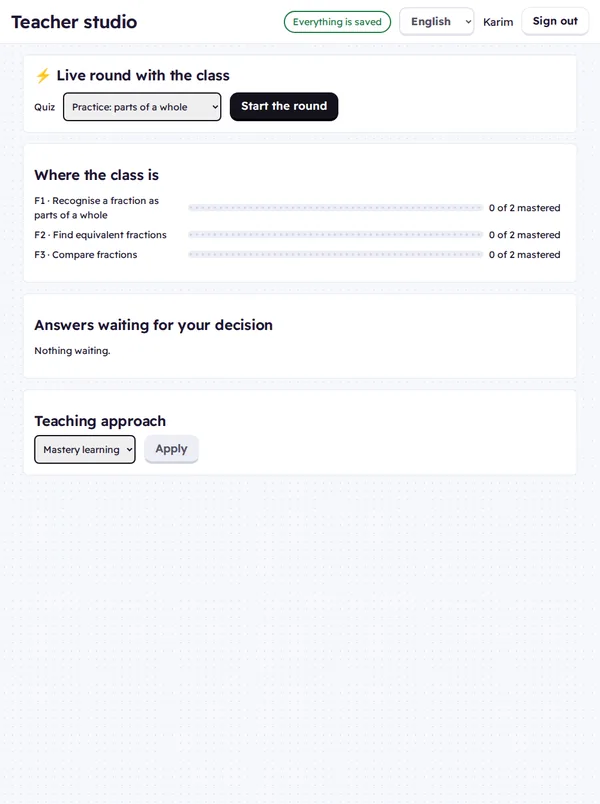
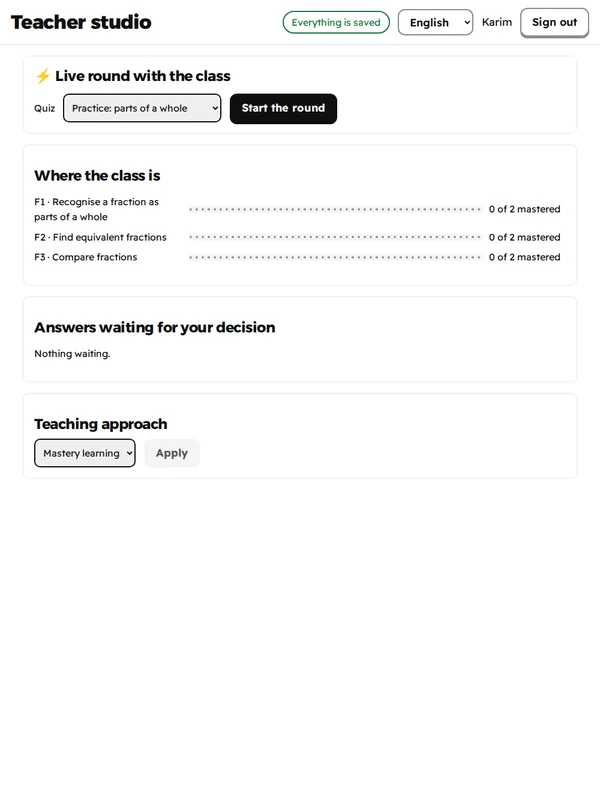
Record the new face and the contrast check
ADR 0016, changelog, journal, art bible and both design skills; new screenshots and share image.

diff --git a/web/src/lib/i18n/landing.ts b/web/src/lib/i18n/landing.ts
@@ -182,7 +182,7 @@ const en: LandingCopy = {
     title: "Made with Zidara",
     lead: "Everything you can open from this page runs on the same kernel. The demo course is one experience among many, built to show how far the engine bends. One course even teaches Zidara, with Zidara.",
     items: [
-      { title: "A learning game", body: "A course in the style of Duolingo and Brilliant for ages 9 to 11: films, toys and questions, marked by the kernel at once. Rewards come only from evidence.", href: "#play", shot: "/landing/path.webp", alt: "The fractions path after one session: level 1 mastered in blue with a palm of dots beside it, level 2 next, Bizra waiting." },
+      { title: "A learning game", body: "A course in the style of Duolingo and Brilliant for ages 9 to 11: films, toys and questions, marked by the kernel at once. Rewards come only from evidence.", href: "#play", shot: "/landing/path.webp", alt: "The fractions course after one lesson: level 1 mastered with a green tick and two stars, level 2 next with a Start button, level 3 locked." },
       { title: "Live rounds", body: "A round on the class board in the style of Kahoot, every phone answering. No timer and no ranking; the answers become practice evidence.", href: "#classes", shot: "/landing/board.webp", alt: "The teacher's studio during a live round: the question, three answers in colour, and buttons to show the answer or move on." },
       { title: "The teacher's studio", body: "The class's progress, the agent's queued marks and every undo, in one place.", href: "#classes", shot: "/landing/studio.webp", alt: "The teacher's studio: where the class is on each outcome, answers waiting for a decision, and the class's teaching approach." },
       { title: "A pedagogy switch", body: "A teacher moves the class from mastery to Cambridge-style, and every learner is judged again from the same evidence.", href: "#classes", shot: "/landing/lens.webp", alt: "The same path under Cambridge-style rules: level 1 is back to open, and a note says the engine, not the game, judges by the school's rules." },
@@ -331,7 +331,7 @@ const fr: LandingCopy = {
     title: "Fait avec Zidara",
     lead: "Tout ce que vous pouvez ouvrir depuis cette page tourne sur le même noyau. Le cours de démo est une expérience parmi d'autres, faite pour montrer jusqu'où le moteur se plie. Un cours enseigne même Zidara, avec Zidara.",
     items: [
-      { title: "Un jeu d'apprentissage", body: "Un cours dans le style de Duolingo et Brilliant pour les 9 à 11 ans : films, jouets et questions, corrigés aussitôt par le noyau. Les récompenses ne viennent que des preuves.", href: "#play", shot: "/landing/path.webp", alt: "Le chemin des fractions après une séance : le niveau 1 maîtrisé en bleu avec un palmier de points à côté, le niveau 2 ensuite, Bizra qui attend." },
+      { title: "Un jeu d'apprentissage", body: "Un cours dans le style de Duolingo et Brilliant pour les 9 à 11 ans : films, jouets et questions, corrigés aussitôt par le noyau. Les récompenses ne viennent que des preuves.", href: "#play", shot: "/landing/path.webp", alt: "Le cours de fractions après une leçon : le niveau 1 maîtrisé avec une coche verte et deux étoiles, le niveau 2 ensuite avec un bouton Go, le niveau 3 verrouillé." },
       { title: "Des manches en direct", body: "Une manche sur le tableau de la classe dans le style de Kahoot, chaque téléphone répond. Pas de chrono ni de classement ; les réponses deviennent des preuves d'entraînement.", href: "#classes", shot: "/landing/board.webp", alt: "L'atelier de l'enseignant pendant une manche en direct : la question, trois réponses en couleur, et des boutons pour montrer la réponse ou continuer." },
       { title: "L'atelier de l'enseignant", body: "Les progrès de la classe, les notes proposées par l'agent et chaque annulation, au même endroit.", href: "#classes", shot: "/landing/studio.webp", alt: "L'atelier de l'enseignant : où en est la classe pour chaque objectif, les réponses en attente de décision, et l'approche pédagogique de la classe." },
       { title: "Changer de pédagogie", body: "Un enseignant passe la classe de la maîtrise au style Cambridge, et chaque élève est jugé à nouveau à partir des mêmes preuves.", href: "#classes", shot: "/landing/lens.webp", alt: "Le même chemin selon le style Cambridge : le niveau 1 redevient ouvert, et une note dit que c'est le moteur, pas le jeu, qui juge selon les règles de l'école." },
@@ -480,7 +480,7 @@ const ar: LandingCopy = {
     title: "صُنع بزيدارا",
     lead: "كل ما تستطيع فتحه من هذه الصفحة يعمل على النواة نفسها. الدرس التجريبي تجربة واحدة من تجارب كثيرة، صُنع ليُظهر إلى أي حدّ ينثني المحرّك. بل إن أحد الدروس يعلّم زيدارا، بزيدارا.",
     items: [
-      { title: "لعبة تعلّم", body: "درس على طريقة Duolingo وBrilliant للأعمار من 9 إلى 11: أفلام وألعاب وأسئلة تصحّحها النواة فورًا. المكافآت لا تأتي إلا من الأدلّة.", href: "#play", shot: "/landing/path.webp", alt: "طريق الكسور بعد حصّة واحدة: المستوى 1 متقَن بالأزرق وبجانبه نخلة من النقاط، والمستوى 2 هو التالي، وبذرة تنتظر." },
+      { title: "لعبة تعلّم", body: "درس على طريقة Duolingo وBrilliant للأعمار من 9 إلى 11: أفلام وألعاب وأسئلة تصحّحها النواة فورًا. المكافآت لا تأتي إلا من الأدلّة.", href: "#play", shot: "/landing/path.webp", alt: "درس الكسور بعد حصّة واحدة: المستوى 1 متقَن بعلامة خضراء ونجمتين، والمستوى 2 هو التالي مع زرّ ابدأ، والمستوى 3 مقفل." },
       { title: "جولات مباشرة", body: "جولة على سبّورة القسم على طريقة Kahoot، وكل هاتف يجيب. لا مؤقّت ولا ترتيب، والإجابات تصير أدلّة تمرّن.", href: "#classes", shot: "/landing/board.webp", alt: "استوديو المعلّم أثناء جولة مباشرة: السؤال، وثلاث إجابات ملوّنة، وأزرار لإظهار الإجابة أو المتابعة." },
       { title: "استوديو المعلّم", body: "تقدّم القسم، وتقييمات الوكيل المنتظرة، وكل تراجع، في مكان واحد.", href: "#classes", shot: "/landing/studio.webp", alt: "استوديو المعلّم: أين وصل القسم في كل هدف، والإجابات التي تنتظر قرارًا، وطريقة التدريس في القسم." },
       { title: "تبديل البيداغوجيا", body: "ينقل المعلّم القسم من الإتقان إلى طريقة كامبريدج، فيُحكم على كل متعلّم من جديد بالأدلّة نفسها.", href: "#classes", shot: "/landing/lens.webp", alt: "الطريق نفسه بقواعد طريقة كامبريدج: يعود المستوى 1 مفتوحًا، وتقول ملاحظة إن المحرّك، لا اللعبة، يحكم بقواعد المدرسة." },

diff --git a/web/src/lib/i18n/strings.ts b/web/src/lib/i18n/strings.ts
@@ -124,7 +124,6 @@ export const STRINGS = {
     "studio.live.board": "افتح السبّورة",
     "studio.live.together": "القسم معًا: {n} إجابات صحيحة من {of}",
     "studio.live.ended": "سُجّلت إجابات كلّ تلميذ دليلًا للتمرّن، وحكم عليها منهج القسم.",
-    "welcome.hello": "مرحبًا! أنا بذرة. هيّا نتعلّم ونحن نلعب!",
     "welcome.title": "تعلّم وأنت تلعب.",
     "welcome.lead": "دروس قصيرة بالصور والألعاب، بلا حساب. وحين يقول التطبيق إنك أتقنت شيئًا فهذا صحيح: محرّك زيدارا هو من يقرّر، لا اللعبة.",
     "welcome.pick": "اختر درسًا",
@@ -156,7 +155,6 @@ export const STRINGS = {
     "lens.yours": "قسمك",
     "lens.note": "نفس إجاباتك، بقواعد «{name}». انظر كيف يتغيّر طريقك: محرّك زيدارا يحكم بقواعد المدرسة، لا اللعبة. قسمك يبقى على «{class}»؛ معلّمك وحده يغيّرها.",
     "lens.hint": "العب مستوى، ثمّ بدّل القواعد: شاهد كيف يحكم كلّ نظام على نفس إجاباتك.",
-    "finish.oasis": "نبتت نخلة في واحتك!",
     "error.generic": "حدث خطأ. حاول مرة أخرى.",
   },
   fr: {
@@ -279,7 +277,6 @@ export const STRINGS = {
     "studio.live.board": "Ouvrir le tableau",
     "studio.live.together": "La classe ensemble : {n} réponses justes sur {of}",
     "studio.live.ended": "Les réponses de chaque élève sont enregistrées comme entraînement, jugées par la méthode de la classe.",
-    "welcome.hello": "Salut ! Je suis Bizra. On apprend en jouant ?",
     "welcome.title": "Apprends en jouant.",
     "welcome.lead": "Des leçons courtes, avec des images et des jeux, sans compte. Quand l'appli dit que tu maîtrises quelque chose, c'est vrai : c'est le moteur de Zidara qui décide, pas le jeu.",
     "welcome.pick": "Choisis une leçon",
@@ -311,7 +308,6 @@ export const STRINGS = {
     "lens.yours": "ta classe",
     "lens.note": "Les mêmes réponses, jugées avec les règles « {name} ». Regarde ton chemin changer : c'est le moteur de Zidara qui juge, selon les règles de l'école, pas le jeu. Ta classe reste en « {class} » ; seul ton enseignant peut la changer.",
     "lens.hint": "Joue un niveau, puis change les règles : vois comment chaque école juge les mêmes réponses.",
-    "finish.oasis": "Un palmier a poussé dans ton oasis !",
     "error.generic": "Une erreur est survenue. Réessaie.",
   },
   en: {
@@ -434,7 +430,6 @@ export const STRINGS = {
     "studio.live.board": "Open the board",
     "studio.live.together": "The class together: {n} right of {of}",
     "studio.live.ended": "Each learner's answers are recorded as practice, judged by the class's teaching approach.",
-    "welcome.hello": "Hi! I'm Bizra. Let's learn by playing!",
     "welcome.title": "Learn by playing.",
     "welcome.lead": "Short lessons with pictures and games, no account needed. When the app says you've mastered something, it's true: Zidara's engine decides, not the game.",
     "welcome.pick": "Choose a course",
@@ -466,7 +461,6 @@ export const STRINGS = {
     "lens.yours": "your class",
     "lens.note": "The same answers, judged by {name} rules. Watch your path change: Zidara's engine judges by the school's rules, not the game. Your class stays on {class}; only your teacher can change it.",
     "lens.hint": "Play a level, then switch the rules: see how each school judges the same answers.",
-    "finish.oasis": "A palm grew in your oasis!",
     "error.generic": "Something went wrong. Please try again.",
   },
 } as const satisfies Record<Locale, Record<string, string>>;

diff --git a/docs/JOURNAL.md b/docs/JOURNAL.md
@@ -4,6 +4,50 @@ Newest first. Each entry: what happened, the problem, what we did, the numbers, 
 
 ---
 
+## 2026-11-03 — A third look, and contrast I had not measured
+
+**What happened.** The owner looked at the dot-matrix restyle and said it was better but the demo
+was "not there yet". The numbered labels ("01 / vision") felt like an AI-made site, the colours
+and font were weak, and the demo should be Brilliant-like without overdoing it. They pointed to
+mastrilo.com for its heading face, colours, contrast and motion. Then, after the first pass:
+"pay attention to color contrast because you are missing so much most of the time".
+
+**The problem.** Three looks in one day, each set mostly from my own instincts; the owner's
+references should have come first. And the contrast record was worse than I knew: axe passed
+every screen, yet the answer cards and inputs had a 1.27:1 edge on white, the language picker
+1.27:1, the front page's cards 1.32:1, and a comment in app.css said the green was 5.6:1 when it
+was 4.38:1. axe skips text it cannot decide and never checks control edges (WCAG 1.4.11), and I
+had written a ratio I never measured.
+
+**What we did.**
+- Studied mastrilo's build: Thmanyah Sans Black for headings (free to use, but behind an email
+  form and not redistributable, so not for a public repo), neutral near-black and white, one
+  bright accent, small idle animations. Rendered nine open Arabic and Latin faces side by side;
+  Alexandria at 800 to 900 was closest. ADR 0016.
+- Front page: dark stage, saffron accent, Alexandria headings, a typing console in the hero,
+  bracket focus on the closing phrase, the live engine in a hairline frame; numbered labels and
+  crosses removed. The hero's dot streams and the dotted wordmark went.
+- Demo rebuilt in Brilliant's manner: course cards, a single column of levels, one idea per
+  screen, Check at the bottom, a feedback panel; the mascot, the oasis and the palms removed.
+- Wrote `lowContrast`: it walks every visible text (translucent layers composited, every stop
+  of a gradient tried) and every control edge, and runs inside every `expectAccessible`. A
+  static tour measures each screen, and a planted-mistake test proves the check fails when it
+  should. It found seven failures axe had passed; all fixed with measured colours.
+
+**Problems on the way.** Letter-spacing on mono labels pulled Arabic words apart; tracking is
+now off for right-to-left everywhere. The console's first Arabic and French examples lost the
+"4" the figures test compares. One Lighthouse run under load said 56; three quiet runs said 98
+to 99. My screenshot script was committed by mistake and taken out before anything left the
+machine.
+
+**The numbers.** Lighthouse `/` 98 to 99 (was 90), `#play` 99, accessibility 100 on both;
+browser tests 13 of 13 and the static suite 7 of 7, all with the measured check; unit tests 44 of 44.
+
+**The lesson.** Start from the owner's references, not from taste. Measure every colour before
+choosing it, write only measured numbers, and test the edges of controls, not only the words.
+
+---
+
 ## 2026-11-03 — I pitched the engine as a game; the front page now says what Zidara is
 
 **What happened.** An hour after the first front page went live, the owner rejected it: "super

diff --git a/.claude/skills/girth-landing/SKILL.md b/.claude/skills/girth-landing/SKILL.md
@@ -16,14 +16,16 @@ metadata:
 State one line before building: page kind, audience, vibe, aesthetic family. Zidara's front page:
 a pitch for judges, funders and schools. **Zidara is the adaptable learning engine / LMS for the
 AI era (kernel, any framework, any experience, governed agents; `docs/proposal.md`). Never pitch
-it as a game: the game is one experience that shows the engine bends** (owner, ADR 0015). Look:
-context.dev's (dot streams, blue dotted frame, ruled sections, mono labels, dot-matrix drawings).
+it as a game: the game is one experience that shows the engine bends** (owner, ADR 0015). Look
+(ADR 0016): a dark, high-contrast stage after mastrilo.com, not copied: near-black, white
+Alexandria headings, grey reading text, one saffron accent, a typing console in the hero, small
+CSS motion, recoloured dot drawings. Start from the owner's references, not from taste.
 
 ## Hard layout rules <!-- src: design-taste-frontend#4-7-layout-discipline-hard-rules-failing-any-of-these-is-shipping-broken-work -->
 - Hero fits the first screen: headline ≤ 3 lines, subtext ≤ 20 words, CTAs visible. Max 4 text elements.
 - Navigation on one line, ≤ 80 px. One label per intent.
 - No two sections share a layout family; bento cells = content count, with varied materials.
-- Mono kickers (`01 / vision`) allowed as the page's rhythm; nothing else uppercase. No split headers, no scroll cues.
+- No numbered section labels or eyebrow kickers (owner: an AI-site pattern); numbers only for a real sequence. No split headers, no scroll cues.
 - Mobile collapse declared per section; no horizontal page scroll.
 
 ## Copy <!-- src: design-taste-frontend#4-9-content-density -->
@@ -40,7 +42,9 @@ the canvas never sits in layout flow (absolute, out of the grid) or it widens co
 ## Speed and access
 - Heavy work off the main thread (the showcase kernel runs in a Web Worker); below-the-fold
   sections use `content-visibility: auto`. Gate: Lighthouse mobile ≥ 90 performance, 100 access.
-- Dark mode by tokens; axe in light, dark and Arabic. Scrolling regions are focusable.
+- Contrast measured, never assumed: text 4.5:1 (3:1 large), every control edge 3:1 or none;
+  `lowContrast` runs in every `expectAccessible`. Write only measured ratios in comments.
+- axe in light, dark and Arabic. Scrolling regions are focusable. No tracking on Arabic.
 - Motion only with a reason, all of it off under reduced motion.
 
 ## Share metadata <!-- src: seo-aeo-best-practices#open-graph -->

diff --git a/docs/adr/0016-a-dark-stage-and-a-brilliant-lesson.md b/docs/adr/0016-a-dark-stage-and-a-brilliant-lesson.md
@@ -1,0 +1,35 @@
+# 0016. A dark stage for the pitch, a light lesson for the demo, contrast measured
+
+Date: 2026-11-03. Status: accepted. Supersedes the look in ADR 0015 (its message stands).
+
+## Context
+The owner found the dot-matrix restyle better but not there: the numbered section labels
+("01 / vision") read as a pattern of AI-made sites, the colours and the font were weak, and the
+demo should feel like Brilliant without overdoing it. They pointed to mastrilo.com's heading
+face, colours, contrast and motion. Then: "pay attention to color contrast", which kept slipping.
+
+## Decision
+- **Front page: a dark, high-contrast stage.** Near-black ground, white headings, grey reading
+  text, one saffron accent (#f7b63c), mastrilo's register but not its blue. No numbered labels
+  or crosses; numbers only where there is a real sequence (the five whys).
+- **Type.** mastrilo's face (Thmanyah Sans) is free to use but behind an email form and may not
+  be redistributed, so it cannot live in a public repo. Of nine open Arabic and Latin faces,
+  Alexandria (SIL OFL) at 800 to 900 came closest; it sets every heading. Readex Pro stays for
+  reading. Only the Arabic and Latin subsets are precached.
+- **Motion, small and CSS.** A console in the hero types a request and the engine answers layer
+  by layer; corner brackets travel along the closing phrase; the dot drawings stay, recoloured.
+  The hero's dot streams and the dotted wordmark go.
+- **Demo: a light lesson in the manner of Brilliant.** Course cards with flat badges, one column
+  of levels with a Start card, one idea per screen, Check pinned at the bottom, a green or
+  orange panel that says why. Bizra, the oasis scene, palms and confetti are removed.
+- **Contrast is measured.** `lowContrast` (tests/e2e/helpers.ts) walks every visible text and
+  control edge: text 4.5:1 (3:1 large) against what is really behind it, gradients and
+  translucent layers included; any drawn control edge 3:1. It runs inside every
+  `expectAccessible`, and tests/static/contrast.spec.ts tours each screen; a planted-mistake
+  test proves it fails when it should.
+
+## Consequences
+- Lighthouse on `/` rose from 90 to 98 to 99: two canvases fewer than the heavy hero they replaced.
+- Every colour token carries its measured ratio; `--edge` (3.4:1 on white) is for anything you
+  press or type into, `--line` only for separators.
+- The art bible's oasis is retired from the screens; the Solve film will need new captures.

diff --git a/.claude/skills/girth-gameui/SKILL.md b/.claude/skills/girth-gameui/SKILL.md
@@ -10,12 +10,18 @@ metadata:
         sections: [0.D Anti-Default Discipline, 4.5 Interactive UI States, 6.B Reduced Motion (mandatory), Micro-Interactions & Effects]
     crafted_for: Game-like learning UI for kids on economy phones, vivid, juicy, not templated
     created: 2026-11-02
-    last_used: 2026-11-02
+    last_used: 2026-11-03
 ---
 ## Ground it in the subject <!-- src: frontend-design#ground-your-designs-in-the-subject-matter -->
 The subject's world, materials and vernacular are where distinctive choices come from: a toy for
 8–11-year-olds looks nothing like a dashboard. Open with the most characteristic thing in that
 world (an image, an animation, an interactive moment), not a headline over cards.
+
+## The house look (ADR 0016)
+The learner screens are a lesson in the manner of Brilliant, owner's call, "don't overdo it":
+white ground, ink, Alexandria headings, one saffron accent, one idea per screen, chunky answer
+cards with a firm lip, Check pinned at the bottom, a green or orange panel that says why. No
+mascot or scenery. Every colour measured: text 4.5:1, control edges (`--edge`) 3:1.
 
 ## Tells of a generated design <!-- src: frontend-design#process--plan--review-against-the-brief--build--critique, design-taste-frontend#0-d-anti-default-discipline -->
 Never spend free choices on defaults: the SaaS-card kit (identical rounded cards, one radius,

diff --git a/CHANGELOG.md b/CHANGELOG.md
@@ -7,6 +7,16 @@ All notable changes to Zidara are recorded here. The format follows
 
 ### Added
 
+- A new face (ADR 0016). The front page is a dark, high-contrast stage: Alexandria headings,
+  one saffron accent, a console in the hero where a request to Zidara is answered layer by
+  layer, corner brackets travelling along the closing phrase, no numbered section labels. The
+  demo is a light lesson in the manner of Brilliant: course cards, one column of levels, Check
+  pinned at the bottom, a green or orange panel that says why. Bizra, the oasis scene and the
+  palms are removed; new screenshots, share image and app icon.
+- Contrast is measured on every screen: every visible text against what is really behind it,
+  and every control's edge (3:1), inside each accessibility check and in a static tour of all
+  screens. Fixes from it: darker green and orange, a visible edge on every control, unlit stars
+  drawn as outlines, edges on the language picker and the front page's cards.
 - The game and the studio now speak the front page's language (ADR 0015, art bible): every
   picture is a grid of dots (the oasis, Bizra, palms, course badges, the burst after a right
   answer), white ground under a faint dot grid, ink and blue buttons, thin lines, mono labels,

diff --git a/docs/art-bible.md b/docs/art-bible.md
@@ -4,6 +4,14 @@ Pillars: **clarity** (a child knows what to do next without reading), **warmth**
 is a friendly place to try and fail), **honesty** (the game shows what the learner can do,
 never more).
 
+> **Revised 3 November 2026, later (ADR 0016): a lesson in the manner of Brilliant.** White
+> ground, ink text, heavy Alexandria headings, one saffron accent, flat course badges. One idea
+> per screen, chunky answer cards, Check pinned at the bottom, a green or orange panel that says
+> why. Levels in one column: green with a tick when mastered, ink with a Start card for the next,
+> outlined while open, grey with a lock. Bizra, the oasis scene and the palms are retired from
+> the screens. Every colour is measured (text 4.5:1, control edges 3:1). Honesty, feedback and
+> sound rules are unchanged.
+>
 > **Revised 3 November 2026 (ADR 0015): the oasis in dots.** The same world drawn the way the
 > front page draws everything: every picture a grid of dots (sun, dunes, water, palms, Bizra,
 > course badges, the burst after a right answer), white ground under a faint dot grid, ink text,
